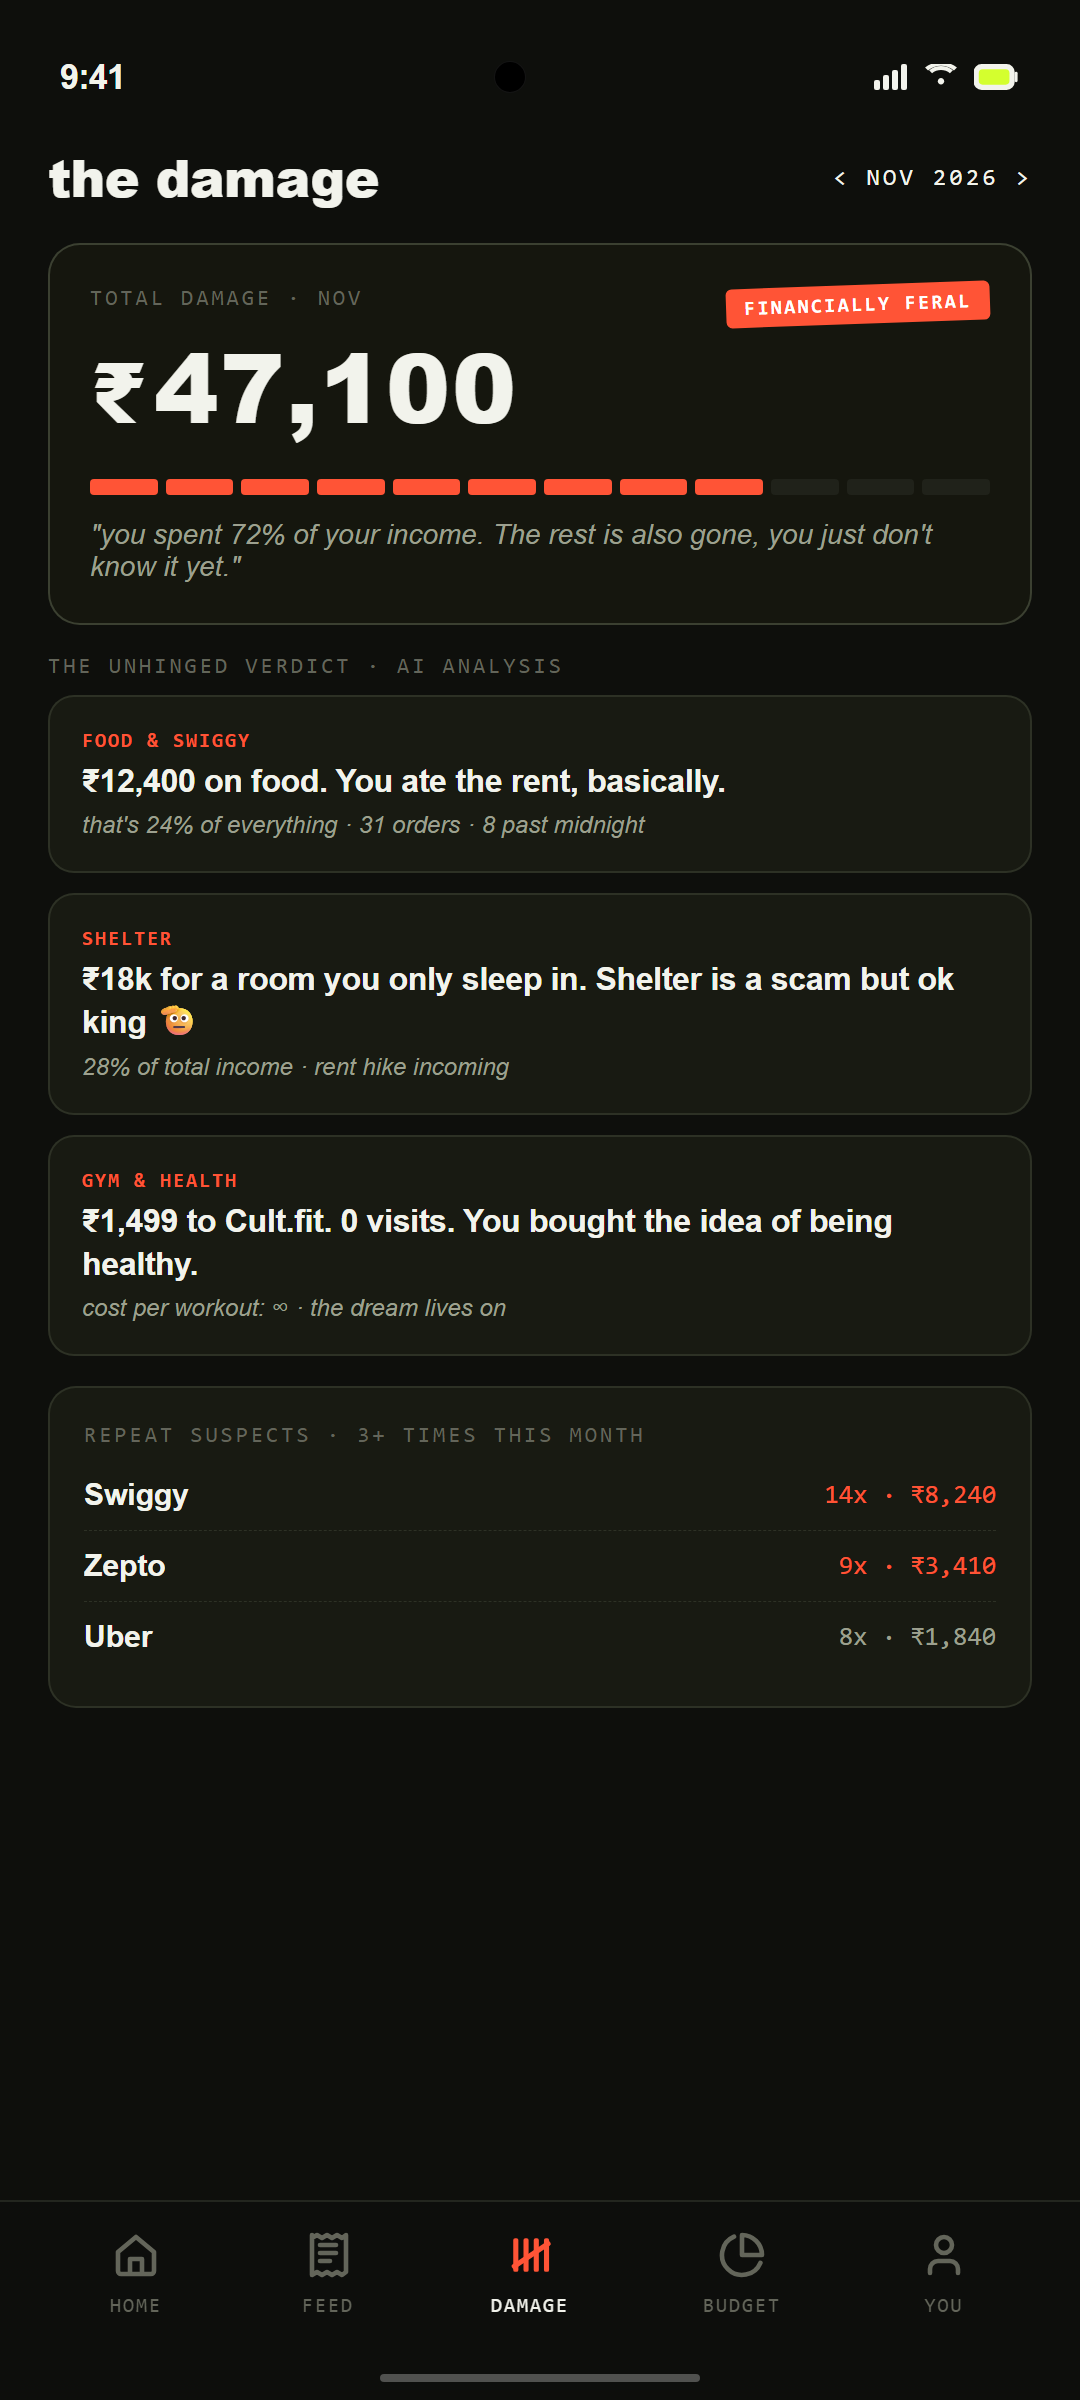
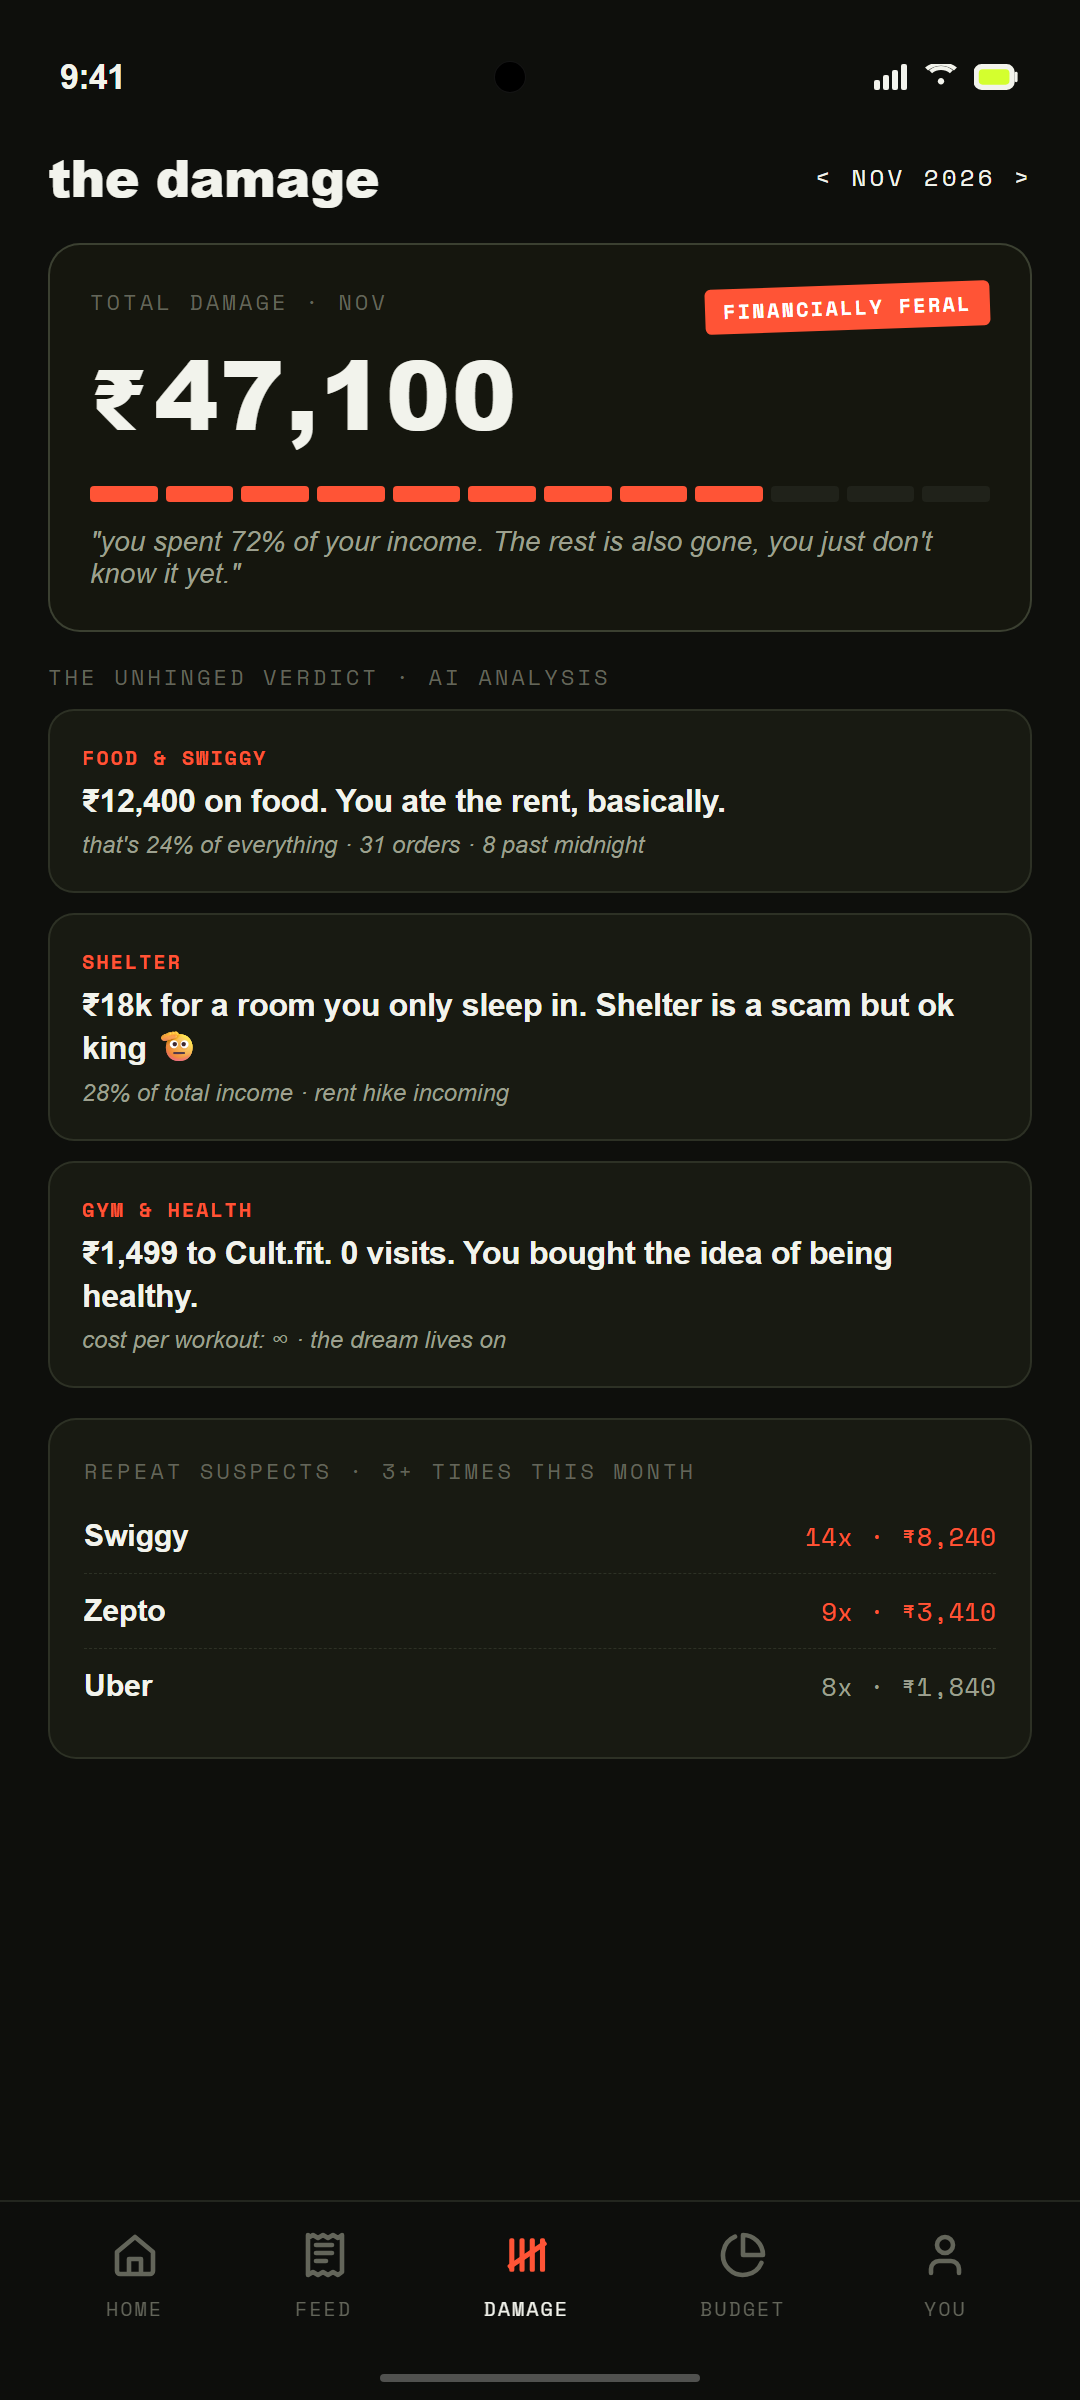
feat(stamp): adopt Version C rubber stamp style stretching corner-to-corner without bottom line

diff --git a/src/tally/screens/HomeScreen.js b/src/tally/screens/HomeScreen.js
@@ -72,18 +72,18 @@ function FeralStampOverlay({ accent }) {
         transform: [
           { translateY: stampY },
           { scale: stampScale },
-          { rotate: '-28deg' },
+          { rotate: '-27deg' },
         ],
       }}
     >
       {/* Authentic Diagonal Corner-to-Corner Rubber Stamp (Bottom-Left to Top-Right) */}
       <View
         style={{
-          width: 380,
-          borderWidth: 3.5,
+          width: 390,
+          borderWidth: 4,
           borderColor: stampInk,
-          borderRadius: 8,
-          padding: 3,
+          borderRadius: 10,
+          padding: 3.5,
           backgroundColor: 'rgba(255, 68, 37, 0.08)',
           shadowColor: '#000',
           shadowOffset: { width: 0, height: 6 },
@@ -94,37 +94,37 @@ function FeralStampOverlay({ accent }) {
       >
         <View
           style={{
-            borderWidth: 1.5,
+            borderWidth: 1.8,
             borderColor: stampInk,
-            borderRadius: 5,
-            paddingVertical: 5,
-            paddingHorizontal: 16,
+            borderRadius: 6,
+            paddingVertical: 6,
+            paddingHorizontal: 18,
             alignItems: 'center',
-            gap: 2,
+            gap: 2.5,
           }}
         >
           {/* Top Stamp Header */}
           <Text
             style={{
               fontFamily: FONTS.monoBold,
-              fontSize: 8,
+              fontSize: 8.5,
               color: stampInk,
-              letterSpacing: 2,
+              letterSpacing: 2.2,
               textTransform: 'uppercase',
             }}
           >
             ★ OFFICIAL TALLY VERDICT ★
           </Text>
 
-          <View style={{ width: '100%', height: 1, backgroundColor: stampInk, opacity: 0.5, marginVertical: 2 }} />
+          <View style={{ width: '100%', height: 1.2, backgroundColor: stampInk, opacity: 0.55, marginVertical: 2 }} />
 
           {/* Main Stamp Headline */}
           <Text
             style={{
               fontFamily: FONTS.display,
-              fontSize: 16,
+              fontSize: 19,
               color: stampInk,
-              letterSpacing: 3.5,
+              letterSpacing: 3.2,
               fontWeight: '900',
               textTransform: 'uppercase',
             }}

diff --git a/scripts/generate_screenshots.py b/scripts/generate_screenshots.py
@@ -396,24 +396,24 @@ def build_screen_dashboard():
   position: absolute;
   top: 50%;
   left: 50%;
-  transform: translate(-50%, -50%) rotate(-28deg);
-  width: 1080px;
-  border: 5px solid var(--red);
-  border-radius: 12px;
-  padding: 4px;
+  transform: translate(-50%, -50%) rotate(-27deg);
+  width: 1090px;
+  border: 6px solid var(--red);
+  border-radius: 14px;
+  padding: 5px;
   background: rgba(255, 68, 37, 0.08);
   pointer-events: none;
   z-index: 10;
   display: flex;
   align-items: center;
   justify-content: center;
-  box-shadow: 0 0 0 2px rgba(255, 68, 37, 0.18), inset 0 0 16px rgba(255, 68, 37, 0.1);
+  box-shadow: 0 0 0 3px rgba(255, 68, 37, 0.15), inset 0 0 20px rgba(255, 68, 37, 0.1);
 }}
 .stamp-feral-inner {{
   width: 100%;
-  border: 2px solid var(--red);
-  border-radius: 7px;
-  padding: 8px 24px;
+  border: 2.5px solid var(--red);
+  border-radius: 8px;
+  padding: 10px 28px;
   display: flex;
   flex-direction: column;
   align-items: center;
@@ -421,7 +421,7 @@ def build_screen_dashboard():
 }}
 .stamp-feral-tag {{
   font-family: var(--mono);
-  font-size: 16px;
+  font-size: 18px;
   font-weight: 700;
   letter-spacing: 4px;
   color: var(--red);
@@ -429,19 +429,19 @@ def build_screen_dashboard():
 }}
 .stamp-feral-rule {{
   width: 100%;
-  height: 1.5px;
+  height: 2px;
   background: var(--red);
   opacity: 0.6;
 }}
 .stamp-feral-title {{
   font-family: var(--display);
-  font-size: 36px;
+  font-size: 46px;
   font-weight: 900;
-  letter-spacing: 8px;
+  letter-spacing: 6px;
   color: var(--red);
   text-transform: uppercase;
   white-space: nowrap;
-  line-height: 1.1;
+  line-height: 1.05;
 }}
 </style>
 </head>
